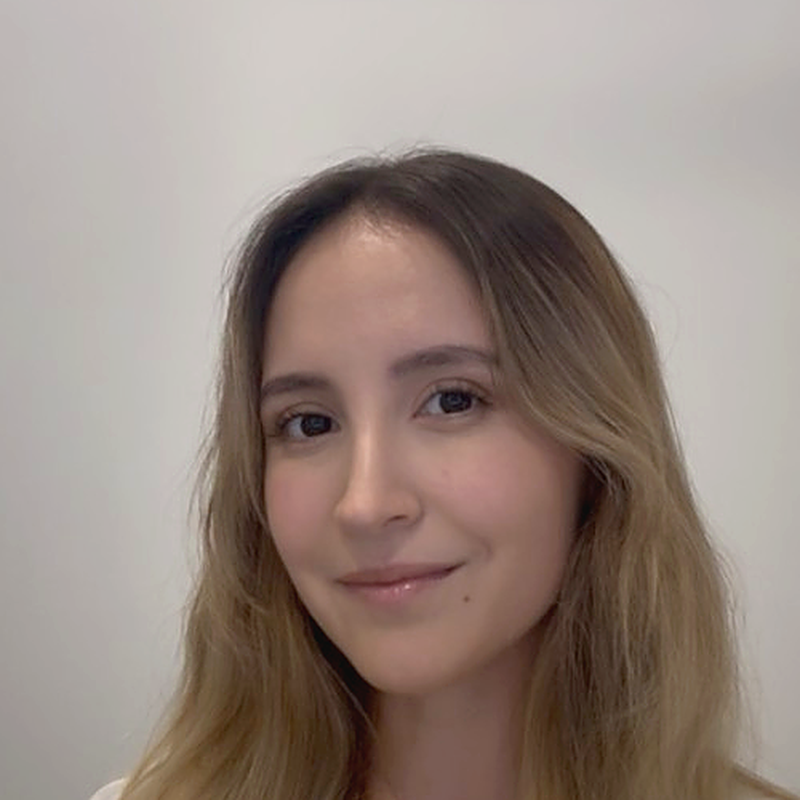
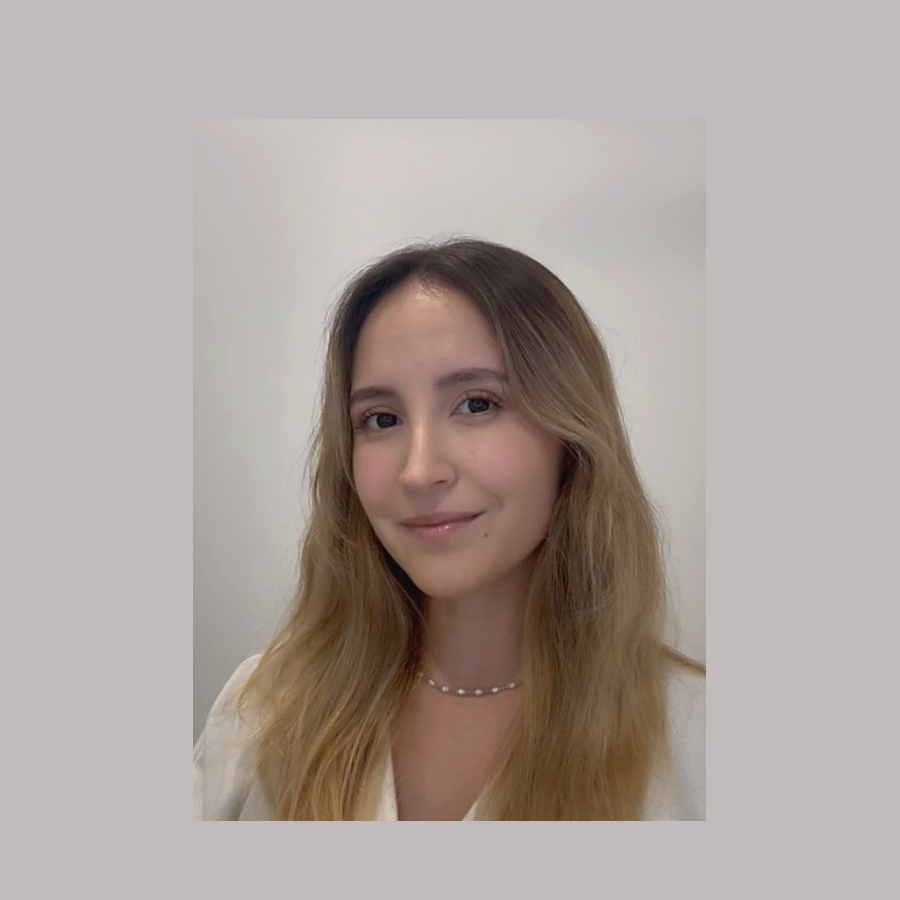
2026-09-13 23:38:02

diff --git a/src/components/Hero.tsx b/src/components/Hero.tsx
@@ -1,5 +1,5 @@
 import Image from "next/image";
-import headshot from "@/assets/headshot1.png";
+import graphic from "@/assets/graphic.png";
 
 const trustItems = [
   "Same teacher every week",
@@ -46,23 +46,13 @@ export default function Hero() {
             </p>
           </div>
 
-          <div className="flex flex-col items-center">
-            <div className="relative w-64 h-64 md:w-80 md:h-80 rounded-full overflow-hidden border-4 border-primary/20">
-              <Image
-                src={headshot}
-                alt="Alejandra Gomez, Spanish teacher"
-                fill
-                className="object-cover object-center"
-                sizes="(max-width: 768px) 256px, 320px"
-                priority
-              />
-            </div>
-            <p className="mt-4 text-sm font-medium text-foreground">
-              Alejandra Gomez
-            </p>
-            <p className="text-sm text-foreground/55">
-              Mexican teacher · 8+ years with kids
-            </p>
+          <div className="flex items-center justify-center rounded-2xl overflow-hidden">
+            <Image
+              src={graphic}
+              alt="Online Spanish class with a teacher and student"
+              className="w-full max-w-md h-auto rounded-2xl"
+              priority
+            />
           </div>
         </div>
 
